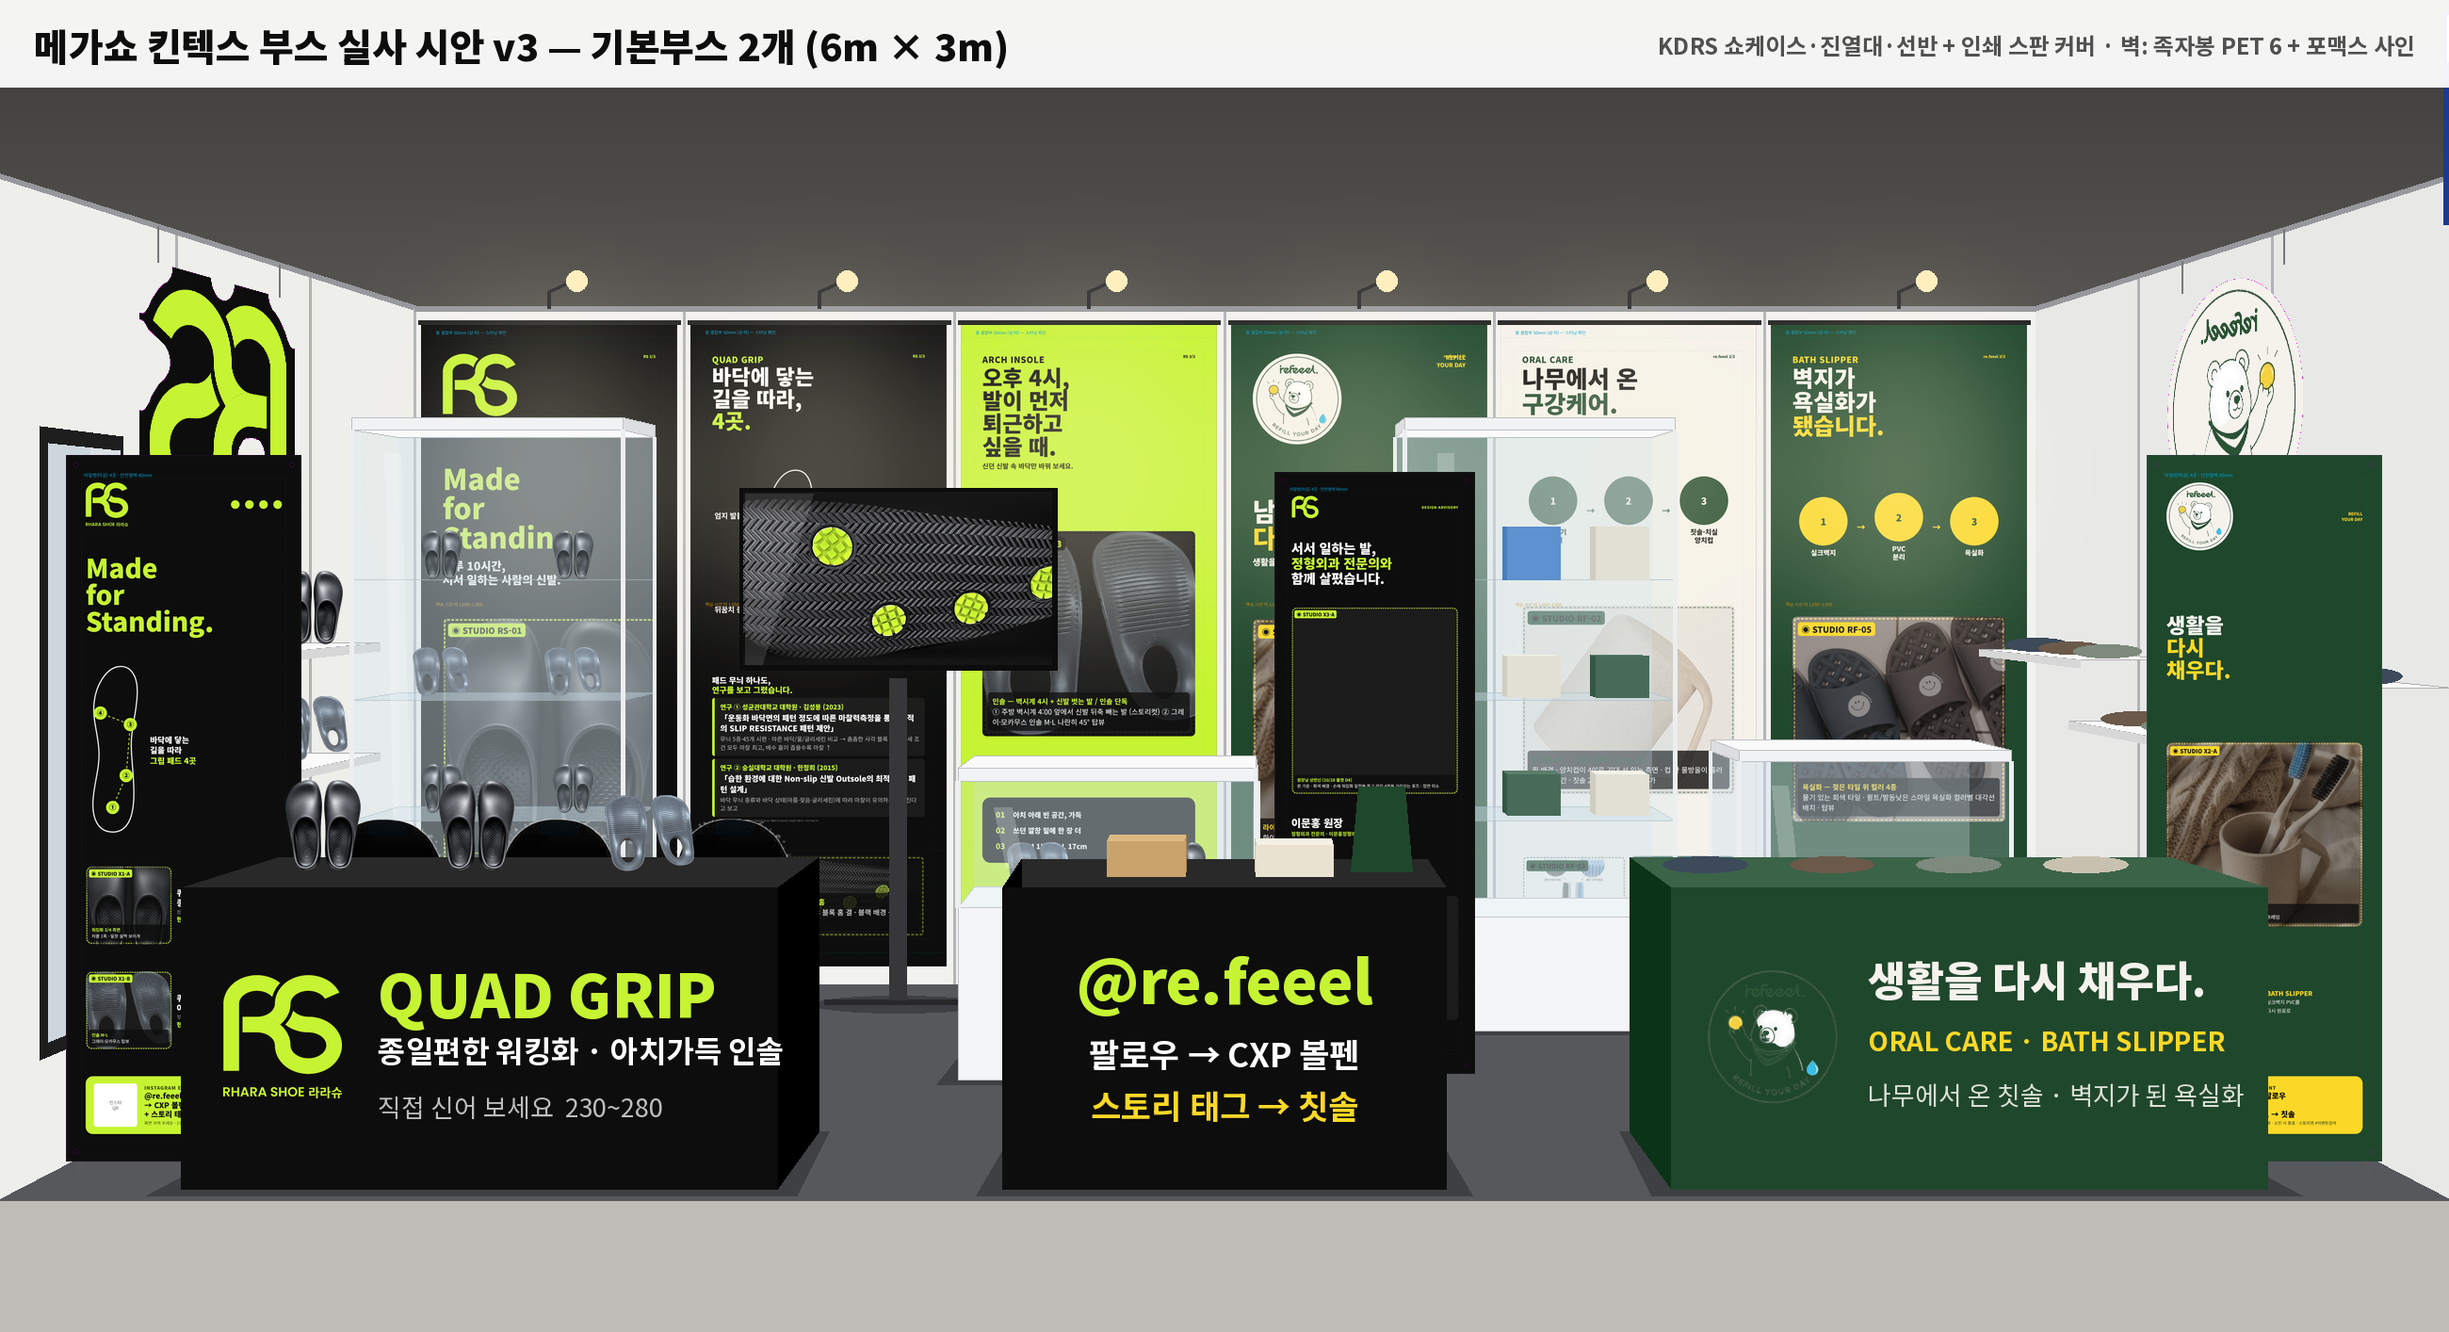
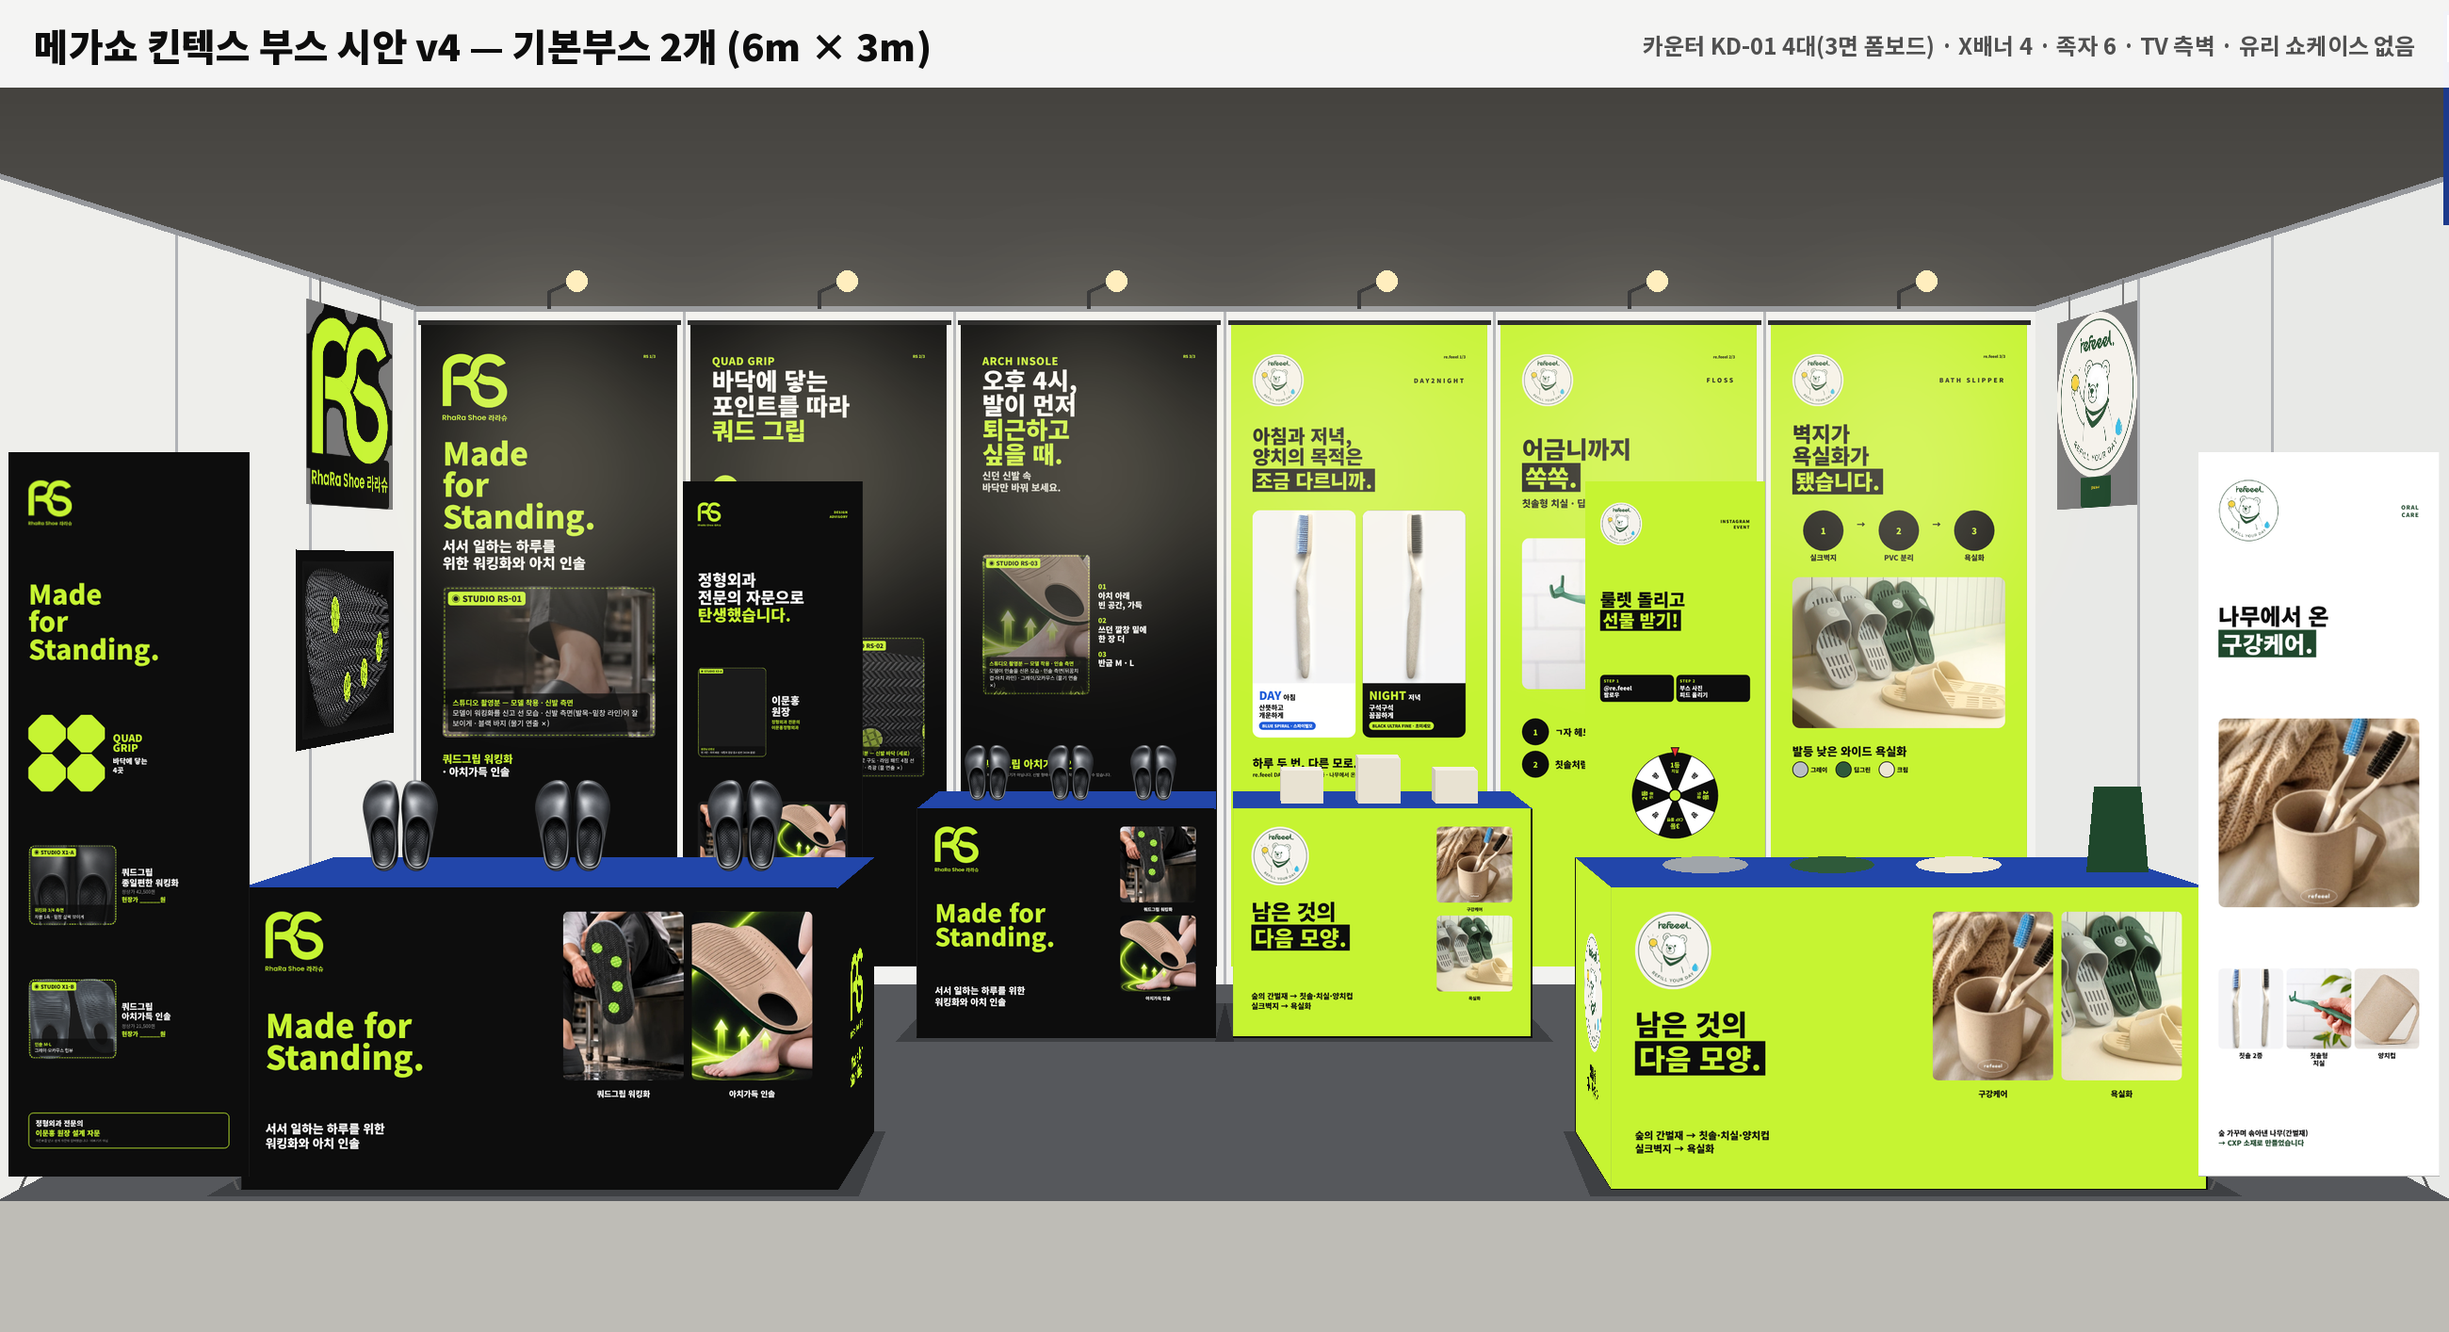
부스 시안 v4: 쇼케이스 제거, TV 측벽, 카운터 4대·X배너 4 재배치
Claude-Session: https://claude.ai/code/session_01WbwBaiEPCZ7zKuMjGg7vqH

diff --git a/launch/rs/design/booth/megashow/render_booth_photo.py b/launch/rs/design/booth/megashow/render_booth_photo.py
@@ -1,10 +1,11 @@
-"""메가쇼 부스 실사형 시안 v3 — 통로에서 본 1점 투시.
+"""메가쇼 부스 실사형 시안 v4 (10/20) — 통로에서 본 1점 투시. 유리 쇼케이스·선반 제거, TV 측벽, 카운터 4대(KD-01) + X배너 4.
+인쇄물 이미지는 ART 폴더(최신 _art.html 캡처, 환경변수 BOOTH_ART)에서 읽음.
 불투명 집기(의자·TV)는 KDRS 카탈로그 실사진, 유리 쇼케이스·진열대·선반은 카탈로그 규격대로 직접 모델링 → 메가쇼_부스_실사시안.png"""
 import os
 import numpy as np, cv2
 from PIL import Image, ImageDraw, ImageFont, ImageFilter
 HERE = os.path.dirname(os.path.abspath(__file__)); KD = os.path.join(HERE, 'kd'); FP = os.path.join(HERE, '../../fair-print')
-A = lambda f: os.path.join(FP, 'assets', f); O = lambda f: os.path.join(FP, 'out', f)
+A = lambda f: os.path.join(FP, 'assets', f); ART = os.environ.get('BOOTH_ART', os.path.join(FP, 'out')); R = lambda f: os.path.join(ART, f)
 FONT = lambda w, s: ImageFont.truetype(os.path.join(FP, f'fonts/NotoSansKR-{w}.ttf'), s)
 INK, LIME, CREAM, GR, YL = (13, 13, 13), (198, 244, 50), (245, 242, 236), (31, 71, 44), (251, 216, 39)
 W, H = 2600, 1500
@@ -49,7 +50,7 @@ for X, col in ((-3000, (238, 238, 235)), (3000, (232, 233, 231))):
 poly([P(-3000, 0, 0), P(3000, 0, 0), P(3000, 0, 2500), P(-3000, 0, 2500)], (242, 242, 240))
 s0 = sc(0)
 for i in range(6):
-    ban = Image.open(O(f'08_banner_950x2380_x6_preview-{i+1}.png')).convert('RGBA')
+    ban = Image.open(R(f'banner-{i}.png')).convert('RGBA')
     x0, y0 = P(-3000 + i * 1000 + 25, 0, 2440)
     img.paste(ban.resize((int(950 * s0), int(2380 * s0)), Image.LANCZOS), (int(x0), int(y0)))
     dr.line([P(-3000 + i * 1000, 0, 0), P(-3000 + i * 1000, 0, 2500)], fill=(178, 180, 184), width=3)
@@ -57,14 +58,11 @@ for i in range(6):
     dr.rectangle([a, b - 3, c2, b + 1], fill=(35, 35, 35))
 dr.line([P(-3000, 0, 2500), P(3000, 0, 2500)], fill=(150, 152, 156), width=6)
 # 측벽 그래픽: 포맥스 사인 S1(RS 로고) / S2(re.feeel 씰) 와이어 걸이
-s1 = Image.open(O('10a_foamex_RS_logo_preview-1.png')).convert('RGBA')
-s1a = np.array(s1); bg = (np.abs(s1a[..., :3].astype(int) - np.array([119, 119, 119])).sum(2) < 30); s1a[bg, 3] = 0
-quad_paste(Image.fromarray(s1a), wall_quad(-2995, 1150, 2250, 1500, 2400))
-s2 = Image.open(O('10b_foamex_refeeel_seal_preview-1.png')).convert('RGBA')
-s2a = np.array(s2); bg = (np.abs(s2a[..., :3].astype(int) - np.array([119, 119, 119])).sum(2) < 30); s2a[bg, 3] = 0
-q = wall_quad(2995, 1250, 2200, 1500, 2400); quad_paste(Image.fromarray(s2a), [q[1], q[0], q[3], q[2]])
-for X, y0, y1 in ((-2995, 1150, 2250), (2995, 1250, 2200)):
-    for yy in (y0 + 120, y1 - 120): dr.line([P(X, yy, 2500), P(X, yy, 2400)], fill=(120, 120, 120), width=2)
+s1 = Image.open(R('s1.png')).convert('RGBA'); s2 = Image.open(R('s2.png')).convert('RGBA')
+q1 = wall_quad(-2995, 250, 1050, 1750, 2420); quad_paste(s1, [q1[1], q1[0], q1[3], q1[2]])
+q2 = wall_quad(2995, 250, 1000, 1750, 2420); quad_paste(s2, q2)
+for X, y0, y1 in ((-2995, 250, 1050), (2995, 250, 1000)):
+    for yy in (y0 + 120, y1 - 120): dr.line([P(X, yy, 2500), P(X, yy, 2420)], fill=(120, 120, 120), width=2)
 # 하이라이트 조명
 glow = Image.new('L', (W, H), 0); gd = ImageDraw.Draw(glow)
 for i in range(6):
@@ -163,82 +161,50 @@ def photo(name, X, y, h_mm, flip=False):
 
 WALK, INS = A('walking-cut.png'), A('insole-cut.png')
 SLP = [(60, 74, 90), (107, 90, 74), (125, 138, 125), (201, 193, 176)]
-# ── 배치 (뒤 → 앞) ──
-# 좌측벽: 신발 벽 선반 2
-wall_shelf(-3000, 1700, 1300, [lambda X, y, z: on_floor(WALK, X, y, z, 280, 230)] * 3)
-wall_shelf(-3000, 1700, 950, [lambda X, y, z: on_floor(INS, X, y, z, 280, 190)] * 3)
-# 우측벽: 욕실화 선반 3
+# ── 배치 v4 (뒤 → 앞) — 집기 겹침 최소화 ──
+SLP = [(160, 165, 170), (47, 90, 58), (237, 230, 211), (60, 74, 90)]
 def slipper(X, y, z, c=0):
     s = sc(y); a, b = P(X, y, z + 5); dr.ellipse([a - 110 * s, b - 38 * s, a + 110 * s, b + 6 * s], fill=SLP[c % 4] + (255,))
-for k, (yy, zz) in enumerate(((800, 1250), (1700, 1050), (2500, 1250))):
-    wall_shelf(3000, yy, zz, [lambda X, y, z, k=k, j=j: slipper(X, y, z, k + j) for j in range(3)])
-# 뒷벽 쪽
-showcase(-2450, 900, 900, 450, 2000, 380, [700, 1100, 1500], [(700, shoes_row([WALK], 2)), (1100, shoes_row([INS, INS], 2)), (1500, shoes_row([WALK], 2))])
-# 50" TV 스탠드 (카탈로그 규격 직접 모델링 — 화면: 밑창 그립 영상 스틸)
-def tv(Xc, y):
-    s = sc(y); bx, by = P(Xc, y, 0)
-    dr.ellipse([bx - 300 * s, by - 30 * s, bx + 300 * s, by + 30 * s], fill=(0, 0, 0, 70))
-    dr.rectangle([bx - 260 * s, by - 18 * s, bx + 260 * s, by], fill=(40, 40, 42))
-    dr.rectangle([bx - 30 * s, by - 1150 * s, bx + 30 * s, by - 18 * s], fill=(55, 55, 58))
-    tl = P(Xc - 560, y, 1820); br = P(Xc + 560, y, 1180)
-    dr.rectangle([tl[0], tl[1], br[0], br[1]], fill=(12, 12, 12))
-    scr = Image.open(A('outsole-lime.jpg')).convert('RGBA'); iw, ih = int(br[0] - tl[0] - 14 * s * 2), int(br[1] - tl[1] - 14 * s * 2)
-    r = max(iw / scr.width, ih / scr.height); scr = scr.resize((int(scr.width * r) + 1, int(scr.height * r) + 1), Image.LANCZOS)
-    scr = scr.crop(((scr.width - iw) // 2, (scr.height - ih) // 2, (scr.width - iw) // 2 + iw, (scr.height - ih) // 2 + ih))
-    img.alpha_composite(scr, (int(tl[0] + 14 * s), int(tl[1] + 14 * s)))
-    dr.polygon([(tl[0] + 20 * s, tl[1] + 20 * s), (tl[0] + 260 * s, tl[1] + 20 * s), (tl[0] + 80 * s, br[1] - 20 * s), (tl[0] + 20 * s, br[1] - 20 * s)], fill=(255, 255, 255, 30))
-tv(-1150, 420)
-showcase(1050, 900, 900, 450, 2000, 380, [700, 1100, 1500], [(700, boxes_row([(232, 224, 205), GR + (255,), (232, 224, 205)])), (1100, boxes_row([YL + (255,), (232, 224, 205), GR + (255,)])), (1500, boxes_row([(232, 224, 205), (60, 120, 200), (232, 224, 205)], 180))])
-showcase(2150, 950, 900, 450, 900, 380, [], [(380, boxes_row([(232, 224, 205), (60, 120, 200), GR + (255,), (232, 224, 205)], 120))])
-# 원장 코너: 1단 쇼케이스 + X배너 ③
-showcase(-350, 1650, 900, 450, 900, 520, [], [(520, shoes_row([INS, WALK], 2))])
+# TV — 좌측벽 걸이 (뒤쪽, 포맥스 사인 아래)
+tq = wall_quad(-2990, 250, 1150, 950, 1600); poly([tq[1], tq[0], tq[3], tq[2]], (14, 14, 14))
+sq = wall_quad(-2985, 290, 1110, 985, 1565)
+scr = Image.open(A('outsole-lime.jpg')).convert('RGBA'); quad_paste(scr, [sq[1], sq[0], sq[3], sq[2]])
+def counter_art(Xc, yf, w, d, front_png, side_png):
+    """KD-01 카운터 + 3면 폼보드(앞판 + 안쪽 옆판)"""
+    h = 750; x0, x1, yb = Xc - w / 2, Xc + w / 2, yf - d
+    shadow(x0, x1, yb, yf)
+    box(x0, x1, yb, yf, 0, h, INK, (36, 60, 160), (20, 20, 20))
+    poly([P(x0, yb, h), P(x1, yb, h), P(x1, yf, h), P(x0, yf, h)], (34, 70, 170))           # KD-01 블루 상판
+    if Xc < 0: quad_paste(Image.open(R(side_png)).convert('RGBA'), [P(x1, yf, h), P(x1, yb, h), P(x1, yb, 0), P(x1, yf, 0)])
+    else: quad_paste(Image.open(R(side_png)).convert('RGBA'), [P(x0, yb, h), P(x0, yf, h), P(x0, yf, 0), P(x0, yb, 0)])
+    a, b = P(x0, yf, h); c2, d2 = P(x1, yf, 0)
+    img.alpha_composite(Image.open(R(front_png)).convert('RGBA').resize((int(c2 - a), int(d2 - b)), Image.LANCZOS), (int(a), int(b)))
 def xban(path, X, y):
     s = sc(y); w, h = int(600 * s), int(1800 * s); bx, by = P(X, y, 0)
     dr.line([(bx - w * .45, by), (bx, by - h * .35)], fill=(90, 90, 90), width=3); dr.line([(bx + w * .45, by), (bx, by - h * .35)], fill=(90, 90, 90), width=3)
-    img.paste(Image.open(path).convert('RGBA').resize((w, h), Image.LANCZOS), (int(bx - w / 2), int(by - h - 30 * s)))
-xban(O('07b_xbanner_doctor_600x1800_preview-1.png'), 450, 1700)
-# 시착: 땅콩의자 3 + 전신거울(좌측벽 앞쪽)
-for xx in (-2450, -1950, -1450): photo('chair', xx, 1950, 820)
-mq = wall_quad(-2990, 2350, 2800, 300, 1900)
-poly(mq, (30, 30, 30)); m2 = wall_quad(-2985, 2380, 2770, 340, 1860); poly(m2, (205, 214, 220))
-dr.polygon([m2[0], (m2[0][0] + (m2[1][0] - m2[0][0]) * .4, m2[0][1] + (m2[1][1] - m2[0][1]) * .4), (m2[3][0] + (m2[2][0] - m2[3][0]) * .2, m2[3][1] + (m2[2][1] - m2[3][1]) * .2), m2[3]], fill=(255, 255, 255, 70))
-# 통로 쪽 X배너 2 (카운터 뒤)
-xban(O('07_xbanner_600x1800_preview-1.png'), -2650, 2750)
-xban(O('07_xbanner_600x1800_preview-2.png'), 2650, 2750)
-# 앞선 카운터 3
-def front_rs(b):
-    x, y, w, h = b; put(A('rs-lockup-lime.png'), (x + w * .07, y + h * .12, w * .2, h * .58))
-    dr.text((x + w * .33, y + h * .2), 'QUAD GRIP', font=FONT(900, int(h * .2)), fill=LIME)
-    dr.text((x + w * .33, y + h * .46), '종일편한 워킹화 · 아치가득 인솔', font=FONT(700, int(h * .1)), fill=(255, 255, 255))
-    dr.text((x + w * .33, y + h * .66), '직접 신어 보세요  230~280', font=FONT(400, int(h * .085)), fill=(190, 190, 190))
-def front_ev(b):
-    x, y, w, h = b
-    dr.text((x + w * .5, y + h * .3), '@re.feeel', font=FONT(900, int(h * .2)), fill=LIME, anchor='mm')
-    dr.text((x + w * .5, y + h * .55), '팔로우 → CXP 볼펜', font=FONT(700, int(h * .11)), fill=(255, 255, 255), anchor='mm')
-    dr.text((x + w * .5, y + h * .72), '스토리 태그 → 칫솔', font=FONT(700, int(h * .11)), fill=YL, anchor='mm')
-def front_rf(b):
-    x, y, w, h = b; put(A('refeeel-seal.png'), (x + w * .06, y + h * .1, w * .22, h * .62))
-    dr.text((x + w * .33, y + h * .2), '생활을 다시 채우다.', font=FONT(900, int(h * .14)), fill=CREAM)
-    dr.text((x + w * .33, y + h * .44), 'ORAL CARE · BATH SLIPPER', font=FONT(700, int(h * .09)), fill=YL)
-    dr.text((x + w * .33, y + h * .62), '나무에서 온 칫솔 · 벽지가 된 욕실화', font=FONT(400, int(h * .085)), fill=(220, 225, 215))
-counter(-1850, 2900, 1480, 600, 750, INK, front_rs)
-counter(0, 2900, 1100, 550, 750, INK, front_ev)
-counter(1850, 2900, 1480, 600, 750, GR, front_rf)
-# 카운터 위
-for X in (-2350, -1950): on_floor(WALK, X, 2600, 750, 300, 240)
-on_floor(INS, -1500, 2600, 750, 320, 200)
-box(-300, -100, 2550, 2700, 750, 840, (201, 163, 107), (220, 185, 130), (170, 135, 85))   # 볼펜 바구니
-box(80, 280, 2550, 2700, 750, 830, (233, 226, 208), (245, 240, 228), (205, 198, 182))     # 칫솔 바구니
-qa, qb = P(330, 2600, 750); s = sc(2600)
+    img.alpha_composite(Image.open(path).convert('RGBA').resize((w, h), Image.LANCZOS), (int(bx - w / 2), int(by - h - 30 * s)))
+# 안쪽 카운터 980 ×2 (뒤쪽 가운데 — 앞 카운터 사이 입구로 보임)
+counter_art(-520, 1000, 980, 600, 'cf980-rs.png', 'cs-rs.png')
+counter_art(520, 1000, 980, 600, 'cf980-rf.png', 'cs-rf.png')
+for X in (-800, -520, -240): on_floor(WALK, X, 750, 750, 230, 190)
+for k, X in enumerate((260, 520, 780)): box(X - 70, X + 70, 680, 820, 750, 860 + 40 * (k % 2), (232, 226, 210), (245, 240, 228), (205, 198, 182))
+# X배너 4 — 뒤 가운데 양옆: ③ 정형외과 자문 · ④ 이벤트 / 앞 모서리: ① 라라슈 · ② re.feeel
+xban(R('xb-dr.png'), -1500, 900); xban(R('xb-ev.png'), 1500, 900)
+# 앞선 카운터 1480 ×2 (가운데 입구 약 1.9m)
+counter_art(-1700, 2900, 1480, 600, 'cf1480-rs.png', 'cs-rs.png')
+counter_art(1700, 2900, 1480, 600, 'cf1480-rf.png', 'cs-rf.png')
+xban(R('xb-rs.png'), -2720, 2900); xban(R('xb-rf.png'), 2720, 2900)
+for X in (-2150, -1700, -1250): on_floor(WALK, X, 2600, 750, 300, 240)
+for k in range(3): slipper(1250 + k * 330, 2620, 750, k)
+qa, qb = P(2250, 2600, 750); s = sc(2600)
 dr.polygon([(qa, qb), (qa + 160 * s, qb), (qa + 140 * s, qb - 220 * s), (qa + 20 * s, qb - 220 * s)], fill=GR + (255,))
-for k in range(4): slipper(1250 + k * 330, 2620, 750, k)
 # 부스 간판 (기본부스 기둥형)
 sx, sy = P(3000, 3000, 2900); s = sc(3000)
 dr.rectangle([sx - 10, sy, sx + 260 * s, sy + 520 * s], fill=(28, 58, 140)); dr.rectangle([sx - 6, sy + 4, sx + 256 * s, sy + 120 * s], fill=(255, 255, 255))
 dr.text((sx + 125 * s, sy + 62 * s), '[부스번호]', font=FONT(900, int(48 * s)), fill=(28, 58, 140), anchor='mm')
 dr.text((sx + 125 * s, sy + 300 * s), '알앤디\n메이커스', font=FONT(900, int(56 * s)), fill=(255, 255, 255), anchor='mm', align='center')
 dr.rectangle([0, 0, W, 92], fill=(255, 255, 255, 240))
-dr.text((36, 18), '메가쇼 킨텍스 부스 실사 시안 v3 — 기본부스 2개 (6m × 3m)', font=FONT(900, 40), fill=INK)
-dr.text((W - 36, 30), 'KDRS 쇼케이스·진열대·선반 + 인쇄 스판 커버 · 벽: 족자봉 PET 6 + 포맥스 사인', font=FONT(700, 24), fill=(80, 80, 80), anchor='ra')
+dr.text((36, 18), '메가쇼 킨텍스 부스 시안 v4 — 기본부스 2개 (6m × 3m)', font=FONT(900, 40), fill=INK)
+dr.text((W - 36, 30), '카운터 KD-01 4대(3면 폼보드) · X배너 4 · 족자 6 · TV 측벽 · 유리 쇼케이스 없음', font=FONT(700, 24), fill=(80, 80, 80), anchor='ra')
 img = img.crop((0, 0, W, int(P(0, 3000, 0)[1] + 140))).convert('RGB')
-img.save(os.path.join(HERE, '메가쇼_부스_실사시안.png')); print('ok')
+img.save(os.environ.get('BOOTH_OUT', os.path.join(HERE, '메가쇼_부스_실사시안.png'))); print('ok')

diff --git a/launch/rs/log.md b/launch/rs/log.md
@@ -272,3 +272,4 @@
 - 2026-10-20 제품 네임택 7종 갱신: 인솔 4구조·M/L·컬러, 칫솔 → DAY2NIGHT(블루·블랙 2종), 치실 리필 20개입 삭제·딥그린, 발등낮은 욕실화 → 발등 낮은 와이드(그레이/딥그린/크림), 워킹화에 정형외과 전문의 설계 자문. 가격 미정 3종(칫솔·양치컵·와이드 욕실화) 대표 확인 대기.
 - 2026-10-20 네임택 가격 확정(대표): DAY2NIGHT 칫솔 2개입 4,000 · 치실 1세트 9,000 · 양치컵 4,000 · 발등 낮은 와이드 욕실화 5,000 · 여성 욕실화 5,000(신규). 퀼트패턴 욕실화 삭제.
 - 2026-10-20 네임택: 오른쪽 위 제품 사진(가격 위) 추가. 여성 욕실화 사진 없음 → 대표 제공 대기.
+- 2026-10-20 부스 시안 v4: 유리 쇼케이스·벽선반 제거, TV 좌측벽 걸이, 카운터 KD-01 4대(앞 1480×2 사이 입구 1.9m / 뒤 가운데 980×2) + 3면 폼보드 실제 디자인, X배너 4(앞 모서리 ①라라슈 ②re.feeel / 뒤 ③정형외과 ④이벤트), 족자 6 최신본, 포맥스 사인 측벽 뒤쪽. 렌더: BOOTH_ART=최신 art 캡처 폴더.
